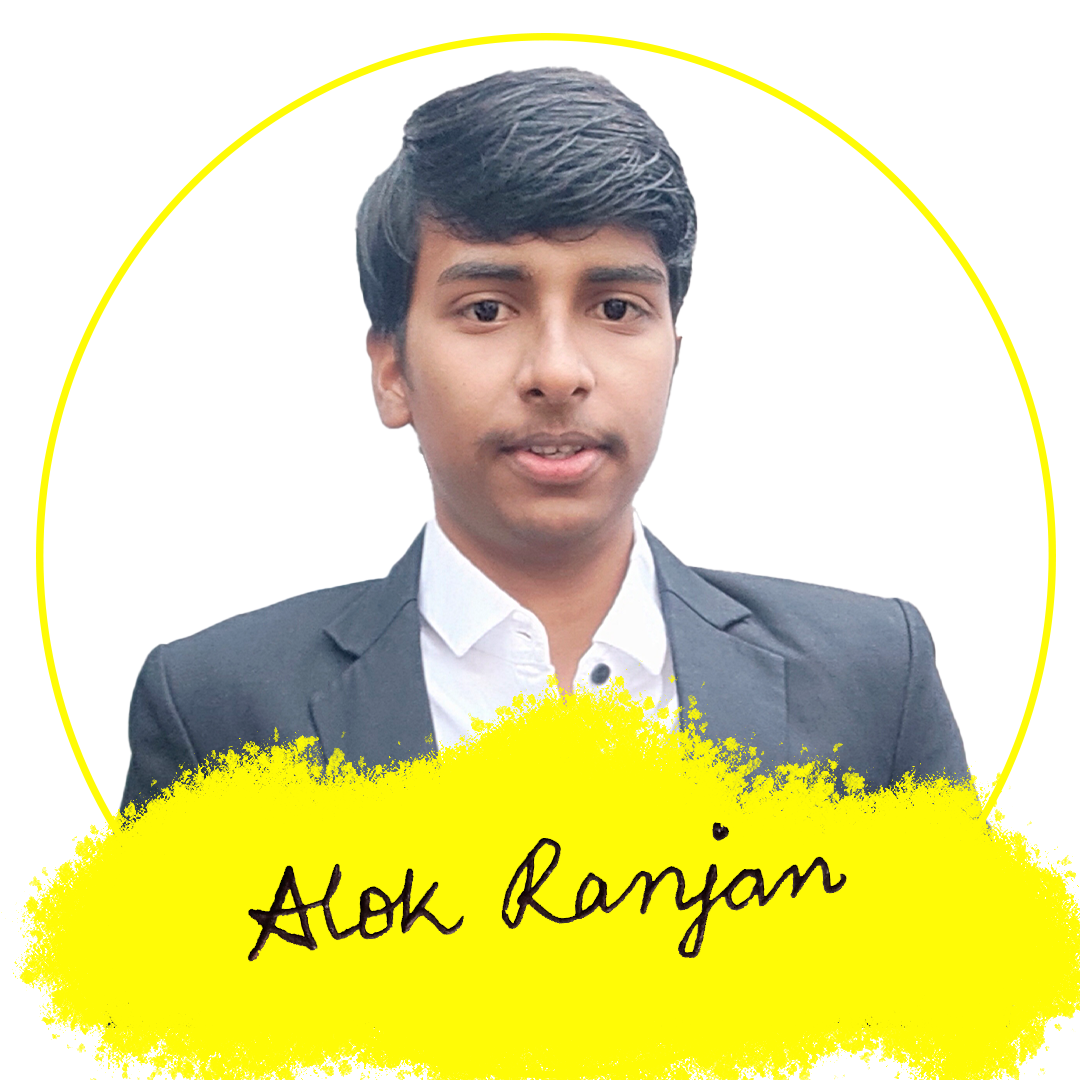
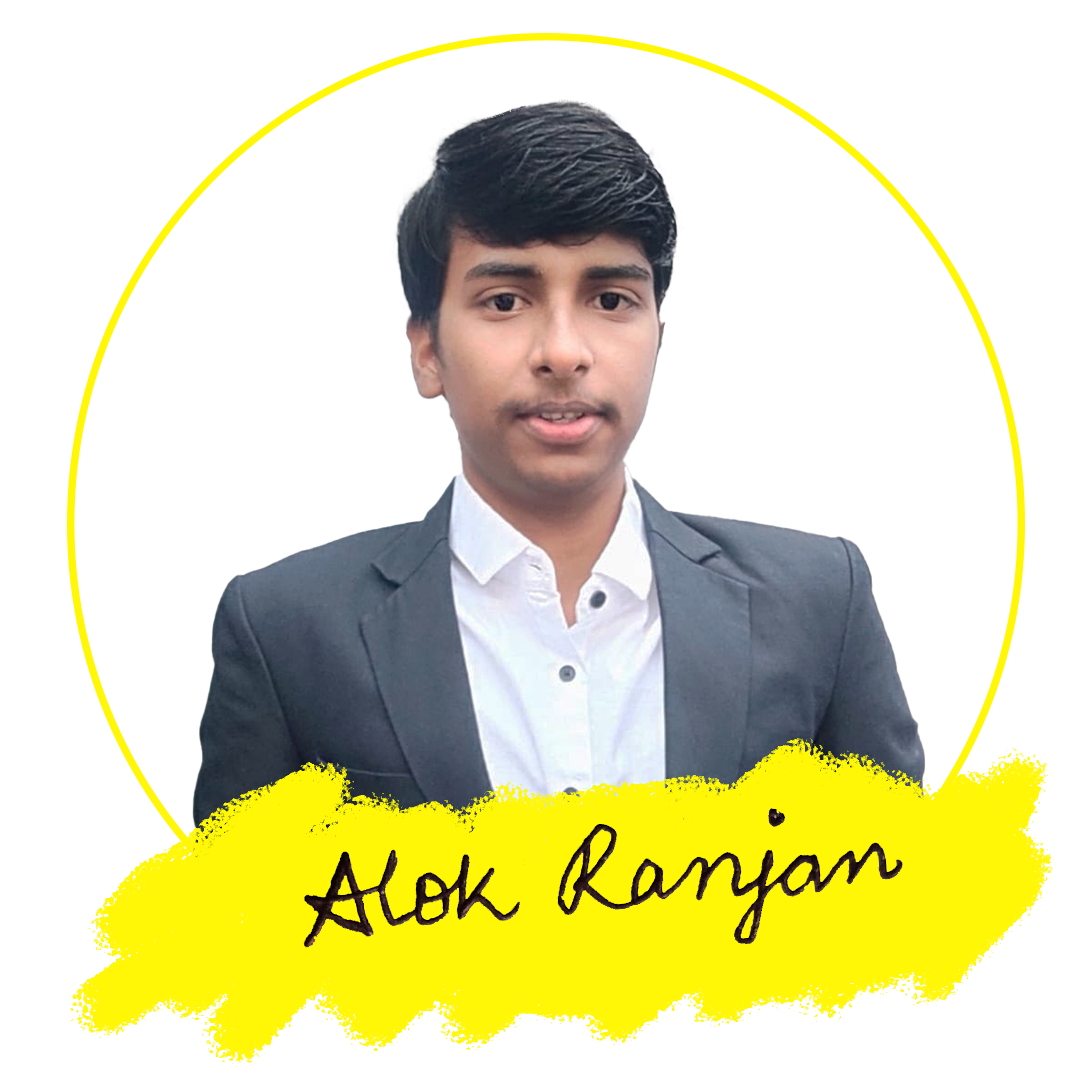
first commit

diff --git a/about.html b/about.html
@@ -52,6 +52,9 @@
     </div> -->
 </div>
 
+    <div class="aboutcontainer-e">
+
+        <div class="acv-main-container">
         <div class="subhead">
             Achievements
         </div>
@@ -93,6 +96,18 @@
                 </div>
             </div>
         </div>
+    </div>
+
+        <!-- <div class="skillcontainer">
+            <div class="subhead">
+                Skills
+            </div>
+
+            <div class="skill-content">
+
+            </div>
+        </div> -->
+    </div>
 
         
         

diff --git a/index.html b/index.html
@@ -45,7 +45,7 @@
         </div>
         </div>
         <div class="imagecontainer">
-            <img src="images/Alok2.png" class="image" alt="image">
+            <img src="images/alok.png" class="image" alt="image">
         </div>
     </div>
 </body>

diff --git a/style.css b/style.css
@@ -375,6 +375,15 @@ td{
         margin-right: 50px;
     }
 
+    .contact{
+        padding: 0.8vw;
+        border-radius: 22px;
+        font-size: 10px;
+        cursor: pointer;
+        border: 2px solid rgb(255, 251, 6);
+        
+    }
+
   }
 
   
